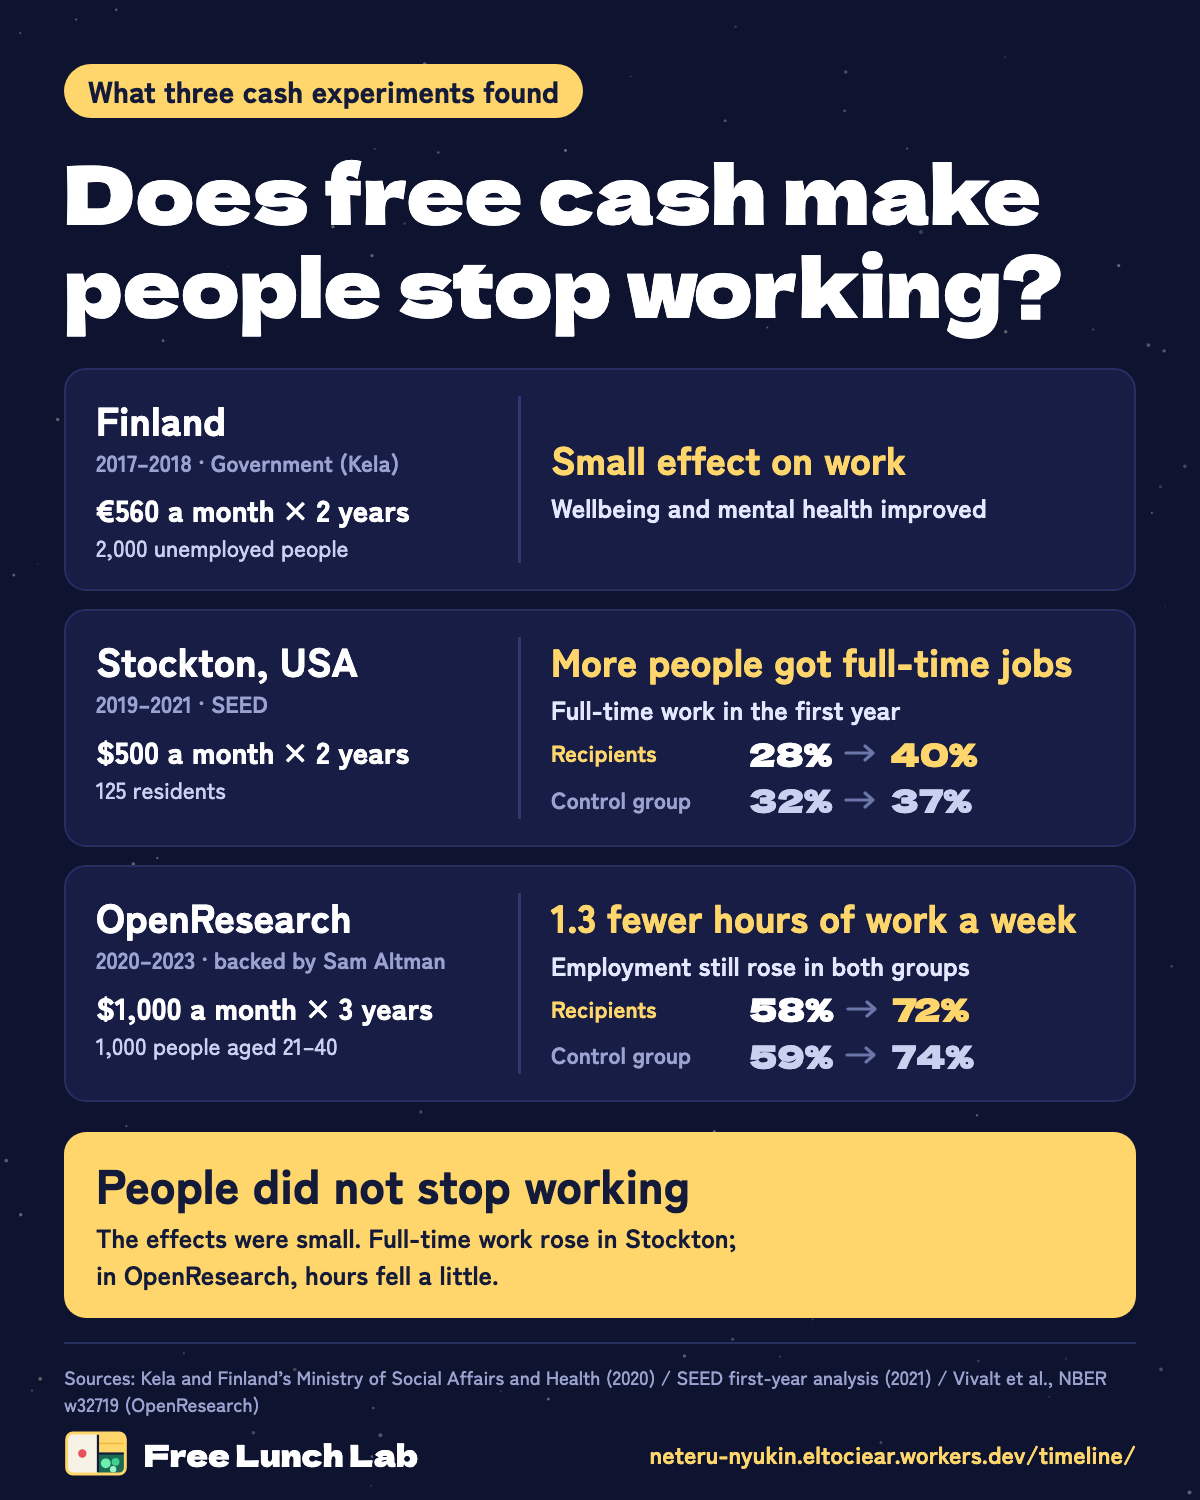
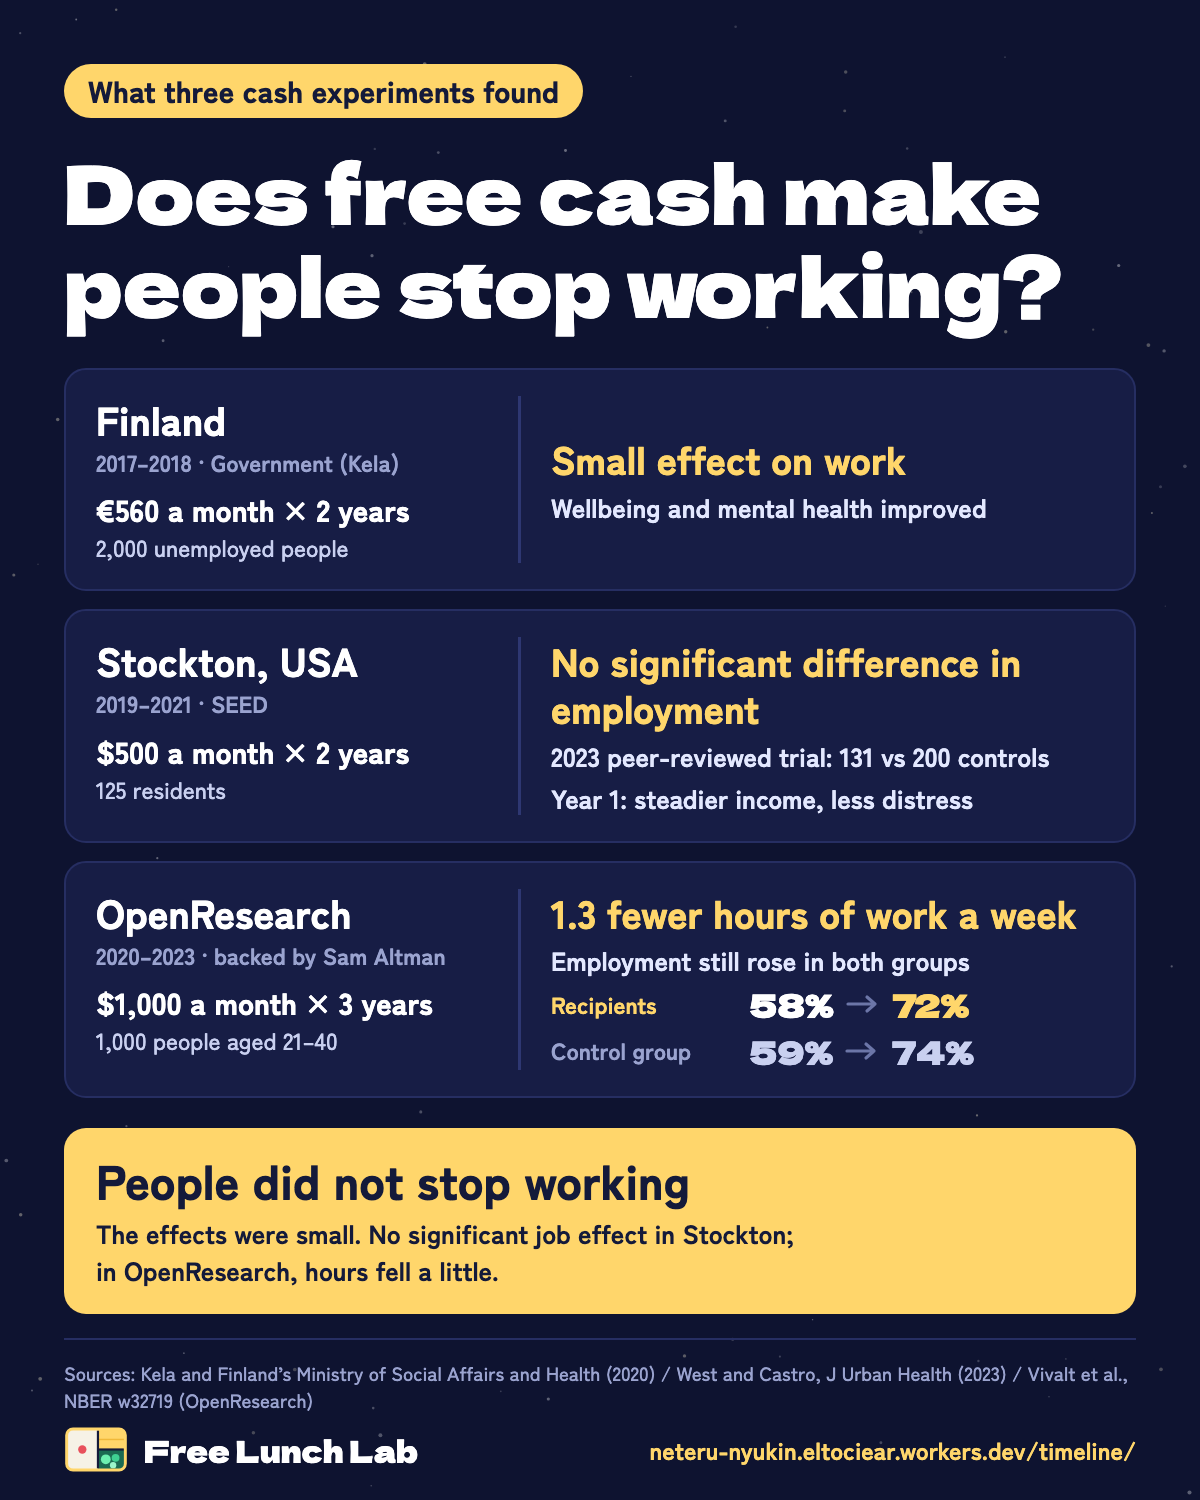
brand: correct the Stockton SEED employment claim in the X infographics to match the 2023 peer-reviewed trial (West and Castro, J Urban Health 2023, PMC10160253): timeline card now reads ja 「収入が安定。雇用には有意な差なし」 / en 'Steadier income; no significant job effect' instead of full-time work at over 2x the 

diff --git a/brand/x/infographics/render.js b/brand/x/infographics/render.js
@@ -457,7 +457,7 @@ h1{font-size:${ja ? 62 : 66}px}
       { id: 'stockton',
         place: ja ? 'アメリカ・ストックトン' : 'Stockton, California',
         what: ja ? '住民125人に月500ドルを2年間' : '$500 a month for 2 years to 125 residents',
-        res: ja ? 'フルタイム就労への移行が対照群の2倍超' : 'Full-time work at over 2× the control rate' },
+        res: ja ? '収入が安定。雇用には有意な差なし' : 'Steadier income; no significant job effect' },
       { id: 'pilotprojekt',
         place: ja ? 'ドイツ' : 'Germany',
         what: ja ? '約120人に月1,200ユーロを3年間' : '€1,200 a month for 3 years to about 120 people',
@@ -1152,8 +1152,9 @@ ${bentoArt}`,
     },
   },
   // X post image: "Does free cash make people stop working?" Three experiments side by side (Finland, Stockton SEED,
-  // OpenResearch), numbers from TIMELINE + the openresearch-cash-study essay in src/data.js; Stockton's 28->40 vs
-  // 32->37 full-time figures are SEED's first-year analysis (Feb 2019-Feb 2020). 1200x1500 (4:5) for the mobile
+  // OpenResearch), numbers from TIMELINE + the openresearch-cash-study essay in src/data.js; Stockton follows the 2023
+  // peer-reviewed trial (West and Castro, J Urban Health 2023, PMC10160253: 131 vs 200, employment differences not
+  // significant, income volatility 19% vs 26% in year 1), not the 2021 first-year report. 1200x1500 (4:5) for the mobile
   // timeline. Flat palette only: solid navy, solid gold #FFD66B, ink #141A3A on gold; no gradients, glows or moon.
   'work-effect': {
     w: 1200, h: 1500, langs: ['ja', 'en'],
@@ -1169,8 +1170,8 @@ ${bentoArt}`,
           more: `<p class="det">${ja ? '生活の満足度と心の健康は改善' : 'Wellbeing and mental health improved'}</p>` },
         { name: ja ? 'ストックトン（米国）' : 'Stockton, USA', meta: ja ? '2019–2021 ・ SEED' : '2019–2021 · SEED',
           pay: ja ? '月500ドル × 2年' : '$500 a month × 2 years', who: ja ? '住民125人' : '125 residents',
-          res: ja ? 'フルタイムで働く人が増えた' : 'More people got full-time jobs',
-          more: `<p class="det">${ja ? '1年目のフルタイム就業率' : 'Full-time work in the first year'}</p>${cmp(R, '28%', '40%', 'hi')}${cmp(C, '32%', '37%')}` },
+          res: ja ? '雇用に有意な差はなかった' : 'No significant difference in employment',
+          more: `<p class="det">${ja ? '2023年の査読論文（受給131人・対照200人）' : '2023 peer-reviewed trial: 131 vs 200 controls'}</p><p class="det">${ja ? '1年目は収入の変動が小さく、心の健康も改善' : 'Year 1: steadier income, less distress'}</p>` },
         { name: 'OpenResearch', meta: ja ? '2020–2023 ・ サム・アルトマン出資' : '2020–2023 · backed by Sam Altman',
           pay: ja ? '月1,000ドル × 3年' : '$1,000 a month × 3 years', who: ja ? '21〜40歳の1,000人' : '1,000 people aged 21–40',
           res: ja ? '労働時間は週1.3時間減った' : '1.3 fewer hours of work a week',
@@ -1199,10 +1200,10 @@ ${bentoArt}`,
 </div>
 <div class="take">
   <p class="t1">${ja ? '人は働くのをやめなかった' : 'People did not stop working'}</p>
-  <p class="t2">${ja ? '変化は小さかった。ストックトンではフルタイム就業が増え、<br>OpenResearch では労働時間が少し減った' : 'The effects were small. Full-time work rose in Stockton;<br>in OpenResearch, hours fell a little.'}</p>
+  <p class="t2">${ja ? '変化は小さかった。ストックトンでは雇用に有意な差がなく、<br>OpenResearch では労働時間が少し減った' : 'The effects were small. No significant job effect in Stockton;<br>in OpenResearch, hours fell a little.'}</p>
 </div>
 <div class="foot3">
-  <p class="src">${ja ? '出典：Kela・フィンランド社会保健省（2020）／ SEED 1年目分析（2021）／ Vivalt ほか、NBER w32719（OpenResearch）' : 'Sources: Kela and Finland’s Ministry of Social Affairs and Health (2020) / SEED first-year analysis (2021) / Vivalt et al., NBER w32719 (OpenResearch)'}</p>
+  <p class="src">${ja ? '出典：Kela・フィンランド社会保健省（2020）／ West・Castro、J Urban Health（2023）／ Vivalt ほか、NBER w32719（OpenResearch）' : 'Sources: Kela and Finland’s Ministry of Social Affairs and Health (2020) / West and Castro, J Urban Health (2023) / Vivalt et al., NBER w32719 (OpenResearch)'}</p>
   <div class="brand">
     <svg width="64" height="45" viewBox="-8 -8 256 184">${mark}</svg>
     <p class="wm2">${ja ? '不労所得研究所' : 'Free Lunch Lab'}</p>
